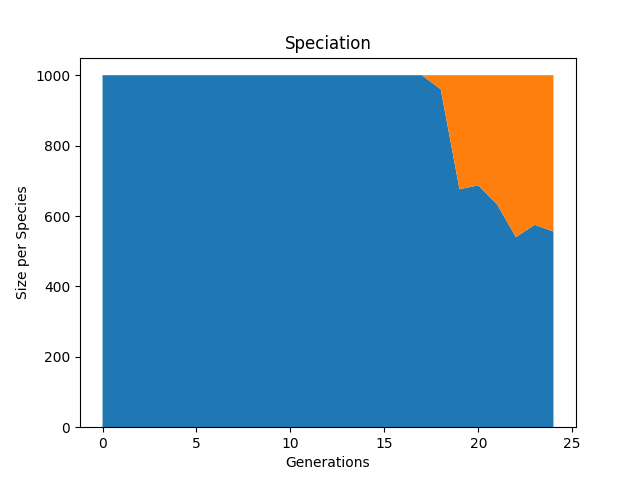
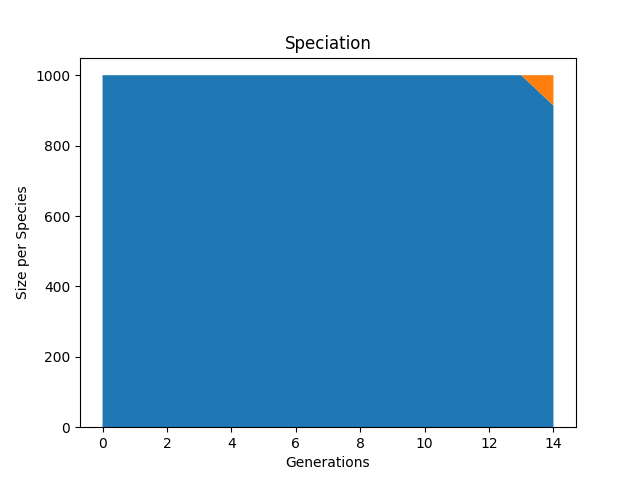
need optimization

diff --git a/snake_game.py b/snake_game.py
@@ -7,12 +7,12 @@ from pygame.locals import *
 from plot_results import plot_stats, plot_species
 from draw_net import draw_net
 
-os.environ["PATH"] += os.pathsep + 'C:\Program Files\Graphviz\bin'
 # pygame parameters
 pygame.init()
 WIN_X = 800
 WIN_Y = 800
 HIGH_SCORE = 0
+GEN = 0
 STAT_FONT = pygame.font.SysFont('comicsans', 50)
 screen = pygame.display.set_mode((WIN_X, WIN_Y))
 pygame.display.set_caption('Snake')
@@ -238,7 +238,7 @@ def run(config_path):
     p.add_reporter(neat.StdOutReporter(True))
     stats = neat.StatisticsReporter()
     p.add_reporter(stats)
-    winner = p.run(main, 5)
+    winner = p.run(main, 15)
 
     # draw_net(config, winner)
     plot_stats(stats, ylog=False, view=True)
